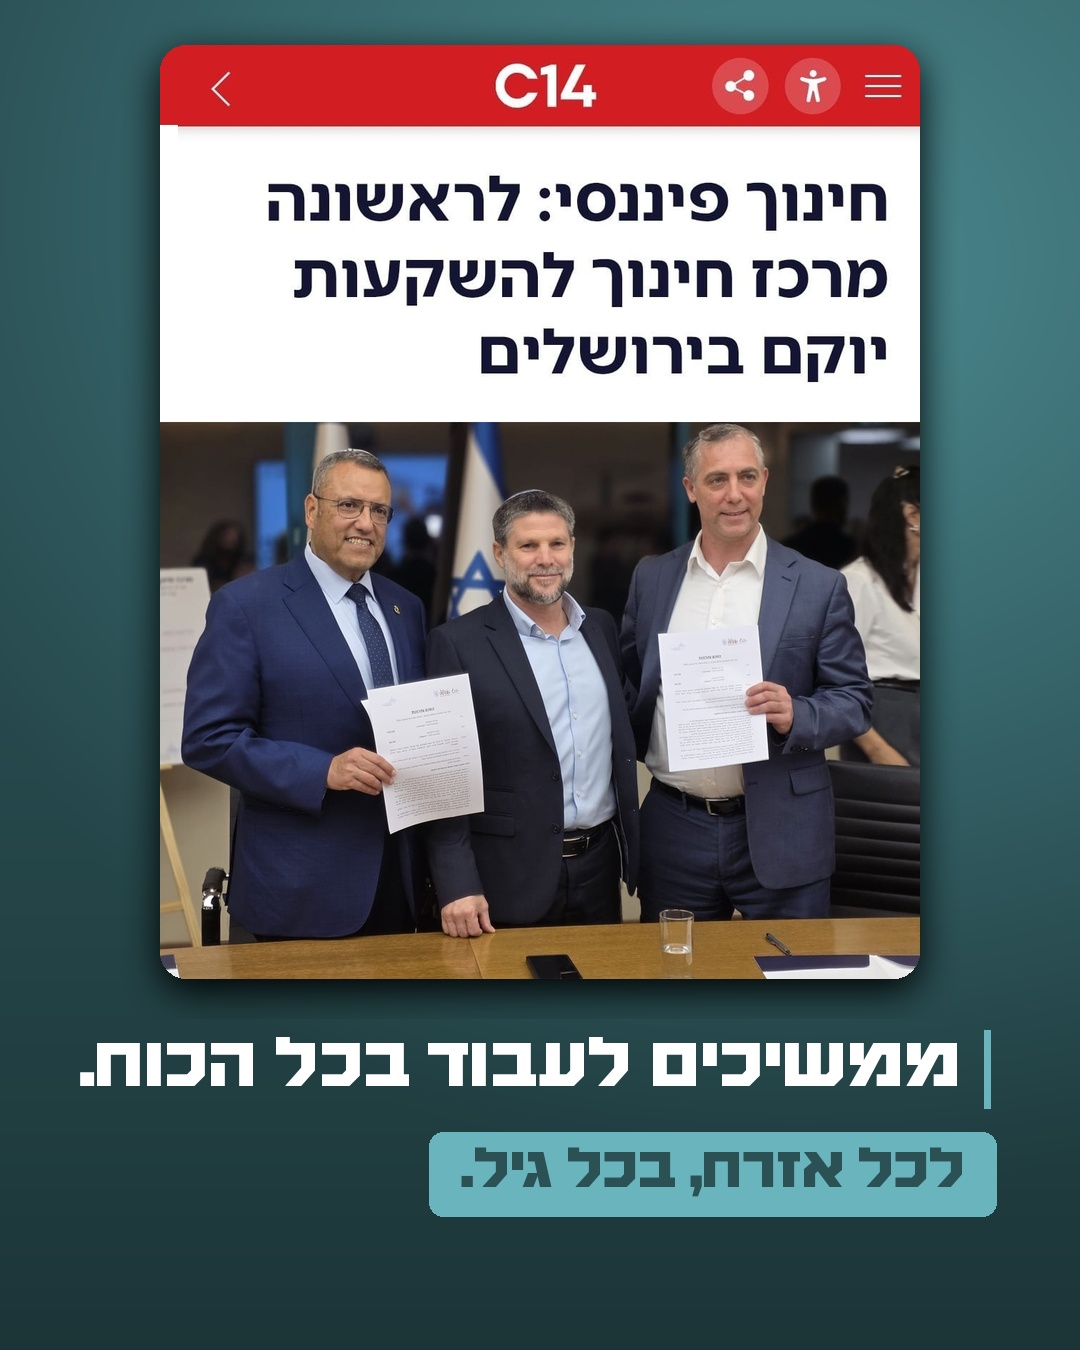
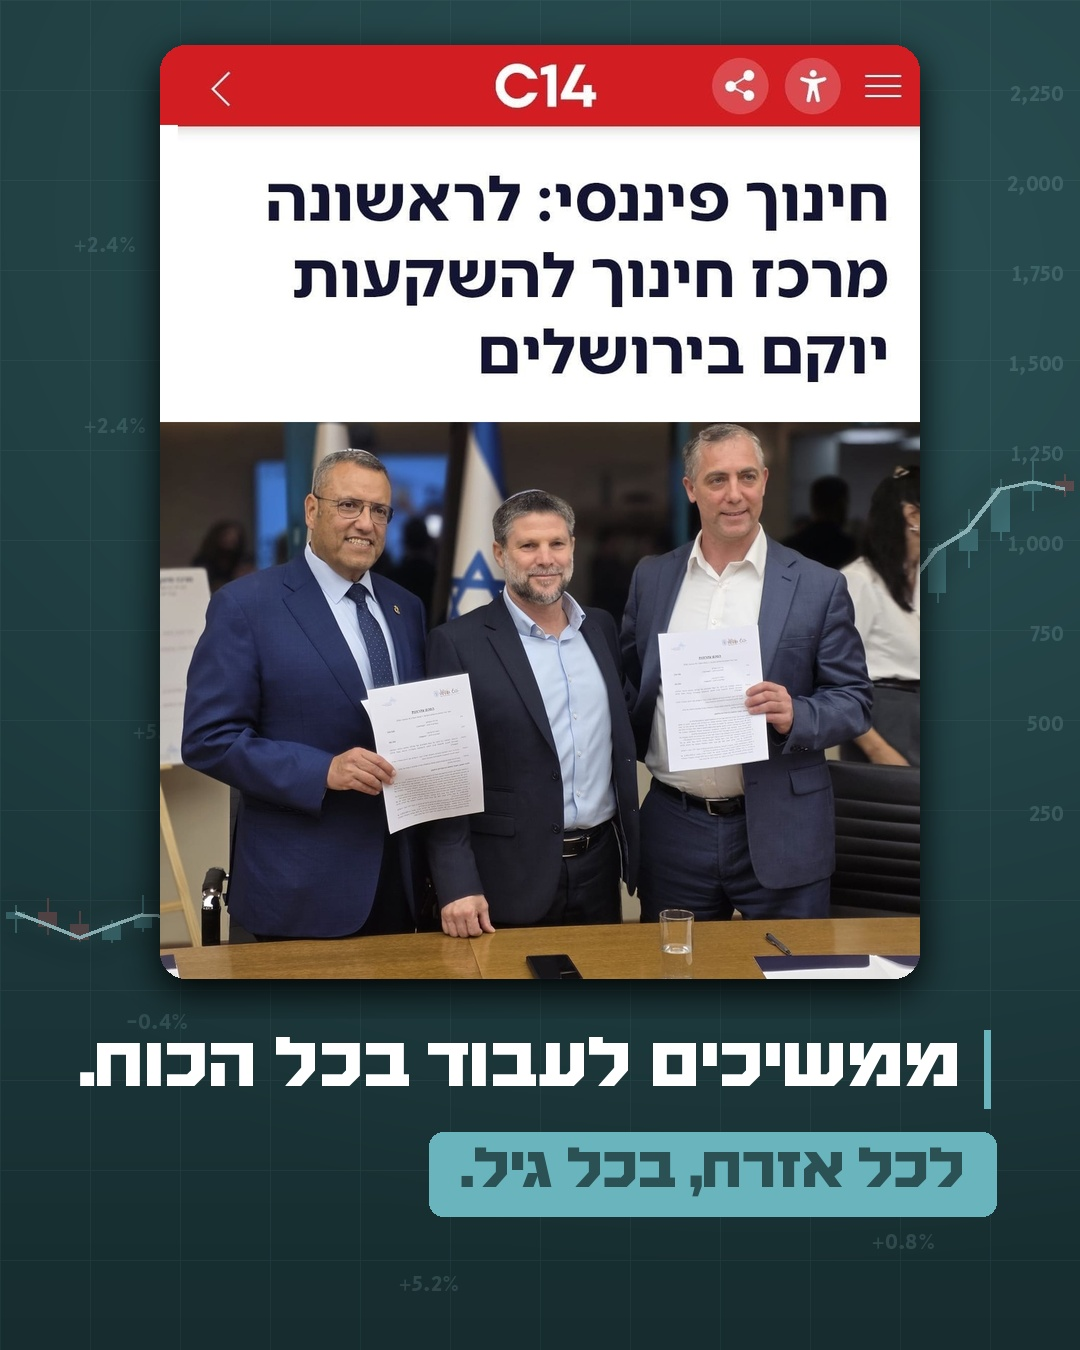
RZ financial post: stock-chart background
Claude-Session: https://claude.ai/code/session_01RS3QK6pAd3YhyAuXZSJjH1

Changed region(s): [[0.0306, 0.0, 1.0, 0.6844], [0.0611, 0.6844, 0.1222, 0.7156], [0.0, 0.6533, 0.0611, 0.6844]]

diff --git a/content-kit/hatzionut-hadatit/2026-11-post-financial-education/bg_chart.py b/content-kit/hatzionut-hadatit/2026-11-post-financial-education/bg_chart.py
@@ -1,0 +1,31 @@
+"""Subtle stock-chart background in RZ teal: grid, candlesticks, rising line with glow, faint ticker numbers."""
+import math, random
+from PIL import Image, ImageDraw, ImageFilter, ImageFont
+DEEP, TEAL, LT, PALE, NIGHT = (43, 81, 85), (80, 146, 153), (105, 180, 189), (173, 213, 217), (16, 36, 39)
+SEC = '/tmp/claude-0/-home-user-The-tur/1a5819ee-0cc0-5045-b086-4a8a80216453/scratchpad/shalev/fonts/SecularOne.ttf'
+def make_bg(W=1080, H=1350, seed=7):
+    random.seed(seed); im = Image.new('RGB', (W, H), NIGHT); px = im.load()
+    for y in range(H):
+        for x in range(W):
+            g = max(0, 1 - math.hypot((x - 760) / 900, (y - 380) / 900)); v = 1 - .3 * (y / H) ** 2
+            px[x, y] = tuple(int((NIGHT[i] + (DEEP[i] - NIGHT[i]) * (.6 + .4 * g)) * v) for i in range(3))
+    im = im.convert('RGBA'); lay = Image.new('RGBA', (W, H), (0, 0, 0, 0)); d = ImageDraw.Draw(lay)
+    for x in range(0, W, 90): d.line((x, 0, x, H), fill=PALE + (14,), width=1)
+    for y in range(0, H, 90): d.line((0, y, W, y), fill=PALE + (14,), width=1)
+    n = 34; step = W / n; price = 0.78; pts = []
+    for i in range(n):
+        o = price; price = max(.18, min(.9, price - random.uniform(-.035, .055) * 1.0 - .012)); c = price
+        hi = min(o, c) - random.uniform(.005, .03); lo = max(o, c) + random.uniform(.005, .03)
+        x = step * i + step / 2; yo, yc, yh, yl = [H * (.25 + .55 * v) for v in (o, c, hi, lo)]
+        up = c < o; col = (LT if up else (200, 90, 90)) + (95,)
+        d.line((x, yh, x, yl), fill=col, width=2); d.rectangle((x - step * .28, min(yo, yc), x + step * .28, max(yo, yc) + 2), fill=col)
+        pts.append((x, yc))
+    glow = Image.new('RGBA', (W, H), (0, 0, 0, 0)); gd = ImageDraw.Draw(glow); gd.line(pts, fill=LT + (150,), width=14, joint='curve')
+    lay.alpha_composite(glow.filter(ImageFilter.GaussianBlur(14))); d.line(pts, fill=PALE + (190,), width=4, joint='curve')
+    f = ImageFont.truetype(SEC, 22)
+    for k in range(9):
+        y = 90 * (k + 1); d.text((W - 16, y - 12), f'{(9 - k) * 250:,}', font=f, fill=PALE + (45,), anchor='ra')
+    for _ in range(14):
+        d.text((random.randint(20, W - 160), random.randint(20, H - 40)), random.choice(['+2.4%', '+0.8%', '+1.6%', '-0.4%', '+5.2%']), font=f, fill=PALE + (40,))
+    im.alpha_composite(lay); return im
+if __name__ == '__main__': make_bg().convert('RGB').save('bg-preview.jpg', quality=90)

diff --git a/content-kit/hatzionut-hadatit/2026-11-post-financial-education/make_post.py b/content-kit/hatzionut-hadatit/2026-11-post-financial-education/make_post.py
@@ -5,12 +5,8 @@ HERE = os.path.dirname(os.path.abspath(__file__))
 KB = HERE + '/../../fonts/HaimClassicv2FM-Bold.ttf'
 W, H = 1080, 1350; DEEP, TEAL, LT = (43, 81, 85), (80, 146, 153), (105, 180, 189)
 def F(s): return ImageFont.truetype(KB, s, layout_engine=ImageFont.Layout.RAQM)
-bg = Image.new('RGB', (W, H), DEEP); px = bg.load()
-for y in range(H):
-    for x in range(W):
-        g = max(0, 1 - math.hypot((x - 800) / 900, (y - 300) / 900)); v = 1 - .35 * (y / H) ** 2
-        px[x, y] = tuple(int((DEEP[i] + (TEAL[i] - DEEP[i]) * g * .9) * v) for i in range(3))
-im = bg.convert('RGBA'); d = ImageDraw.Draw(im)
+import sys; sys.path.insert(0, HERE); from bg_chart import make_bg
+im = make_bg(W, H); d = ImageDraw.Draw(im)
 src = Image.open(HERE + '/article-with-photo.jpg').convert('RGB')
 cw = 760; card = src.resize((cw, int(cw * src.height / src.width)), Image.LANCZOS)
 m = Image.new('L', card.size, 0); ImageDraw.Draw(m).rounded_rectangle((0, 0, card.width - 1, card.height - 1), 26, fill=255)
